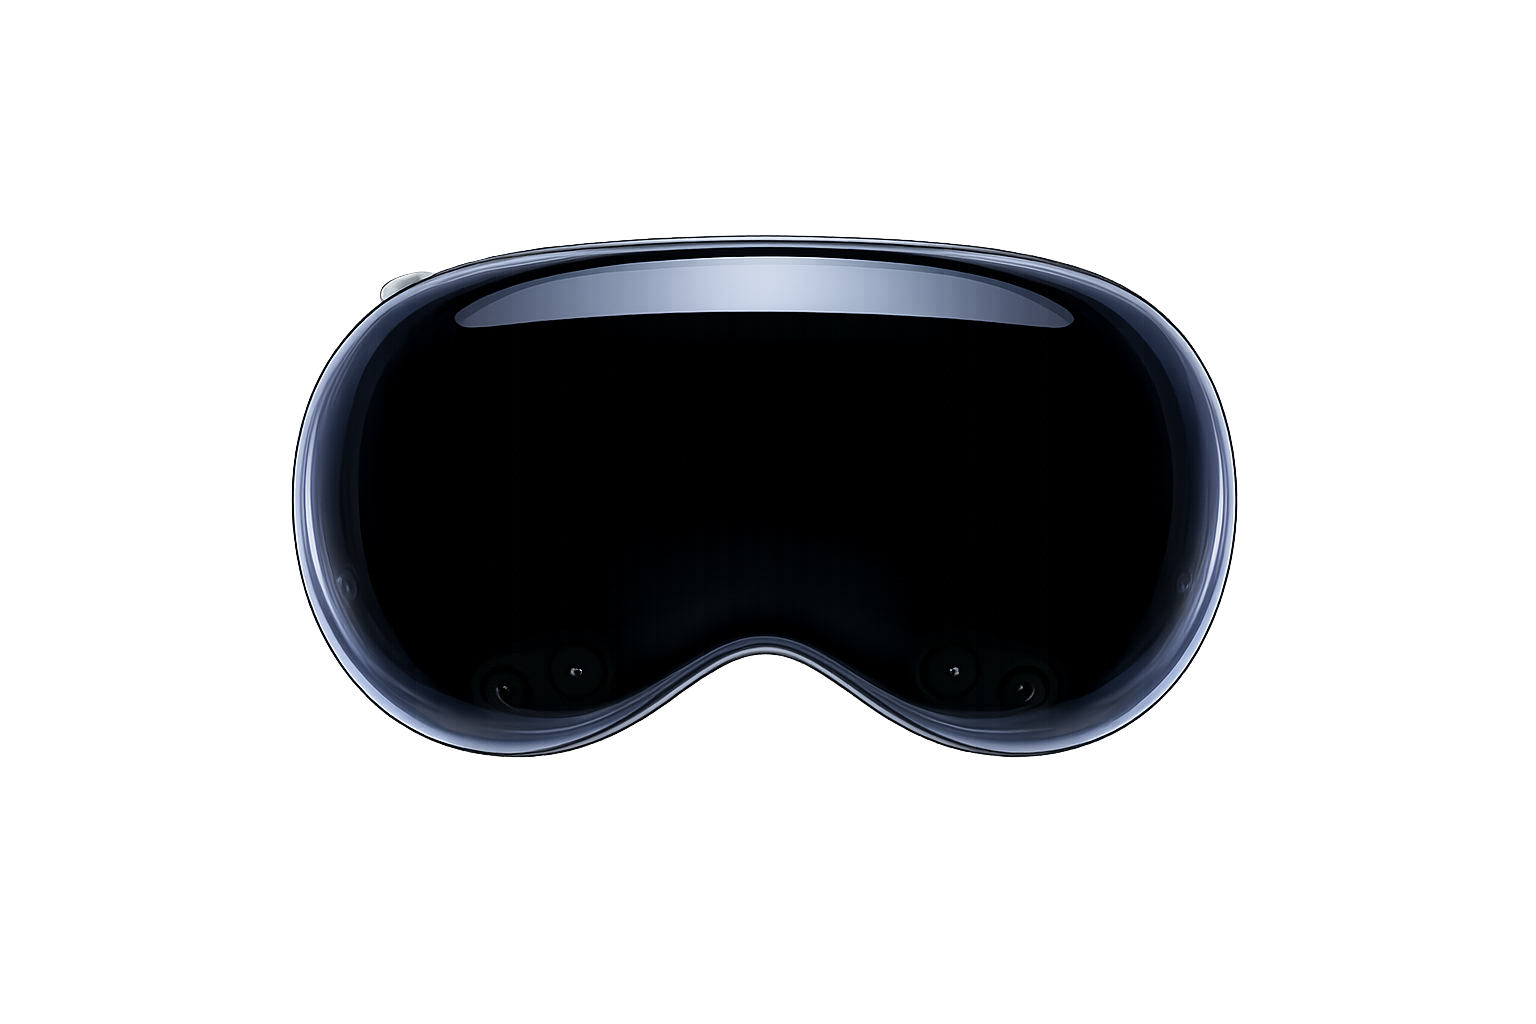
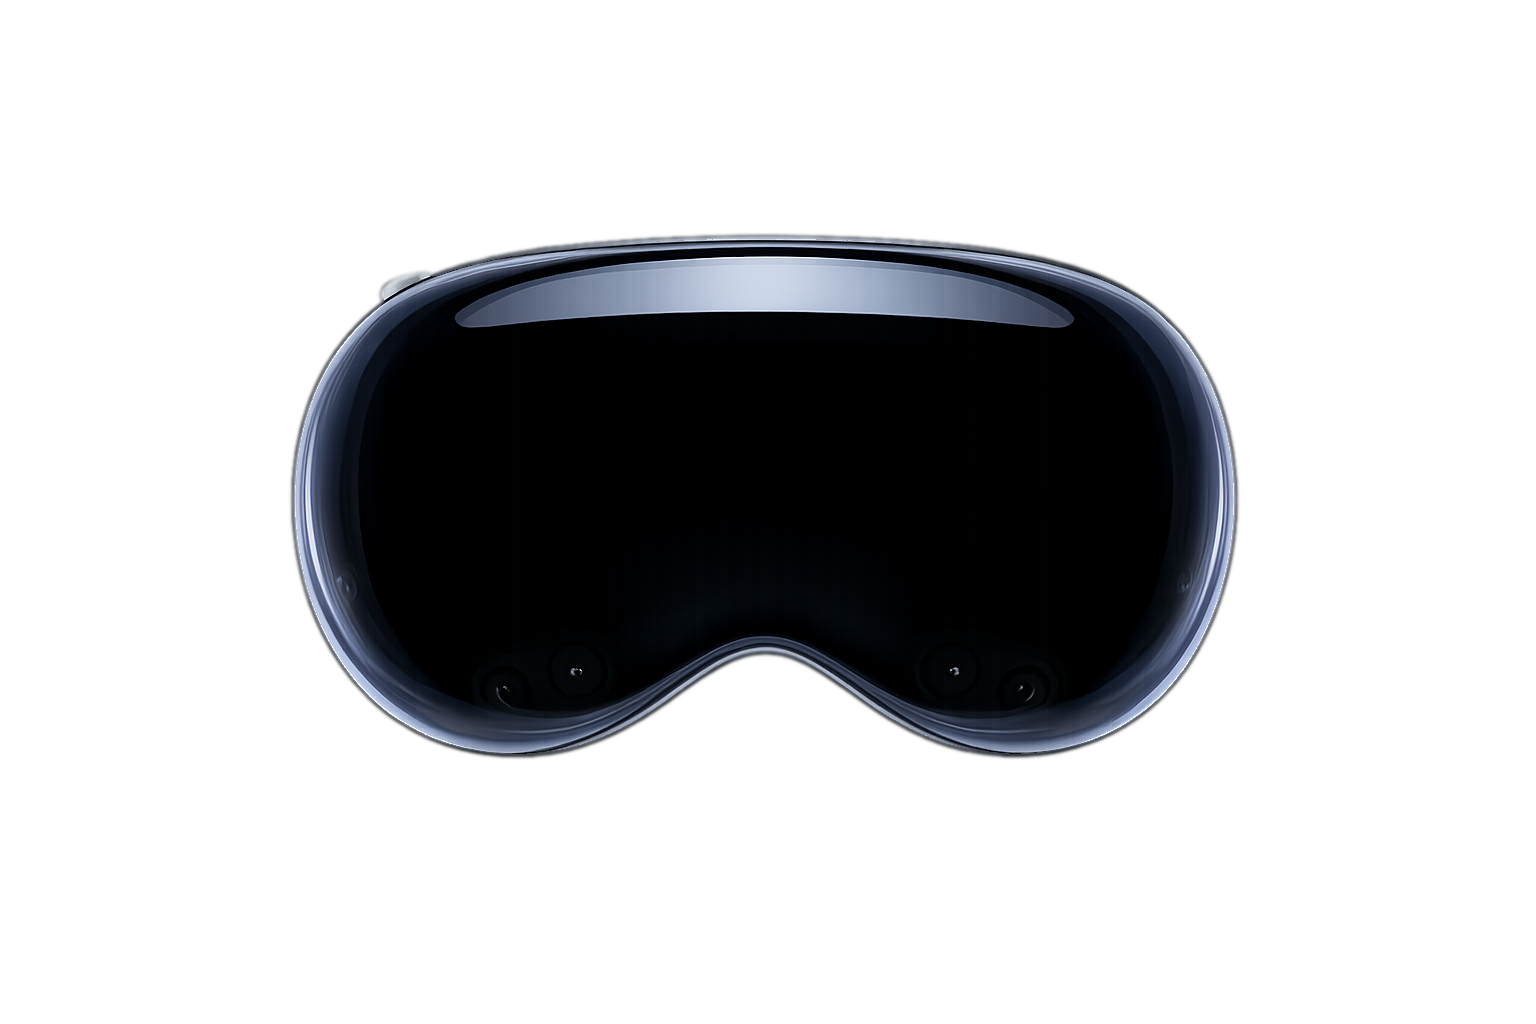
Hero: feather headset PNG edge and rework glass-surface shadow
Removes the hard 1-2px black fringe ring around HeadsetTransparent.png
via premultiplied-alpha feathering, and re-tunes the .hero-visual::before
glow/shadow gradients (tighter box, recentered, smaller radii) so they
fully fade out before .hero's overflow:hidden edge instead of clipping
flat. Softens the silhouette drop-shadow and contact-shadow ellipses so
the headset reads as resting on reflective glass rather than a sticker
cutout.

diff --git a/styles.css b/styles.css
@@ -668,52 +668,51 @@ h1 .accent {
 }
 
 /* Studio surface, anchored to the headset's container so it follows
-   the headset on every viewport. The implied surface line sits at
-   y = 63% of this (oversized) box. Real product-shadow anatomy: a tight
-   dark core right at the contact, a mid penumbra, and a broad faint
-   ambient pool — every layer reaches zero by ~±42% from center so the
-   shadow can never hit a viewport or section edge and clip flat. */
+   the headset on every viewport. .hero-visual sits flush against the
+   right edge of the viewport with very little margin before `.hero`'s
+   overflow:hidden clips it — so unlike a symmetric layout, this box can
+   only extend a little to the right (2%) but has lots of room on the
+   left (-20%). Every gradient layer is sized to reach zero by ~±35% from
+   its center, comfortably inside that right-side limit on every viewport
+   so nothing gets clipped flat. */
 .hero-visual::before {
   content: "";
   position: absolute;
-  top: 0; left: -25%; right: -25%; bottom: -30%;
+  top: 0; left: -20%; right: 2%; bottom: -22%;
   pointer-events: none;
   z-index: 0;
   background:
-    /* surface edge — a sharp, bright specular line where the device meets
-       the glass: tighter and brighter than a matte surface so the plane
+    /* surface edge — a bright specular band where the device meets the
+       glass: tighter and brighter than a matte surface so the plane
        reads as polished glass catching the daylight */
-    radial-gradient(ellipse 44% 0.32% at 53% 62.7%,
-      rgba(255,253,246,0.92) 0%,
-      rgba(251,244,228,0.46) 38%,
-      rgba(235,224,203,0.14) 70%,
+    radial-gradient(ellipse 30% 1% at 60% 64%,
+      rgba(255,253,246,0.85) 0%,
+      rgba(251,244,228,0.42) 42%,
+      rgba(235,224,203,0.12) 75%,
       transparent 100%),
-    /* core — softer contact shadow: glass transmits light, so the shadow
-       directly under the device is lighter than it would be on matte ground */
-    radial-gradient(ellipse 26% 1.6% at 53% 63.1%,
+    /* core — tight, soft contact shadow right under the device. Glass
+       transmits light, so this stays lighter than shadow on matte ground */
+    radial-gradient(ellipse 17% 2.4% at 60% 65%,
       rgba(24,34,27,0.30) 0%,
-      rgba(24,34,27,0.21) 35%,
-      rgba(24,34,27,0.09) 68%,
-      rgba(24,34,27,0.02) 88%,
+      rgba(24,34,27,0.18) 38%,
+      rgba(24,34,27,0.06) 72%,
       transparent 100%),
     /* penumbra — soft mid shadow, slightly forward of the device */
-    radial-gradient(ellipse 32% 4.2% at 53% 63.9%,
-      rgba(24,34,27,0.17) 0%,
-      rgba(24,34,27,0.10) 40%,
-      rgba(24,34,27,0.04) 68%,
-      rgba(24,34,27,0.01) 86%,
+    radial-gradient(ellipse 24% 5% at 60% 66%,
+      rgba(24,34,27,0.14) 0%,
+      rgba(24,34,27,0.06) 50%,
+      rgba(24,34,27,0.015) 80%,
       transparent 100%),
-    /* ambient — broad, very faint, swallows the other two smoothly */
-    radial-gradient(ellipse 40% 7.5% at 53% 64.6%,
-      rgba(24,34,27,0.075) 0%,
-      rgba(24,34,27,0.045) 42%,
-      rgba(24,34,27,0.018) 68%,
-      rgba(24,34,27,0.005) 86%,
+    /* ambient — broad, very faint, swallows the other layers smoothly
+       and fully fades out before the right edge of this box */
+    radial-gradient(ellipse 32% 8% at 60% 67%,
+      rgba(24,34,27,0.05) 0%,
+      rgba(24,34,27,0.02) 50%,
       transparent 100%),
     /* warm daylight wash behind the device */
-    radial-gradient(ellipse 44% 32% at 53% 49%,
-      rgba(208,182,130,0.18) 0%,
-      rgba(208,182,130,0.07) 52%,
+    radial-gradient(ellipse 36% 28% at 60% 52%,
+      rgba(208,182,130,0.16) 0%,
+      rgba(208,182,130,0.06) 55%,
       transparent 100%);
 }
 
@@ -804,39 +803,42 @@ h1 .accent {
        middle. Softer peak + extra mid stops so it dissolves smoothly
        into the surrounding green glow rather than cutting against it. */
     radial-gradient(ellipse 30% 100% at 24% 50%,
-      rgba(0,0,0,0.72) 0%,
-      rgba(0,0,0,0.68) 4%,
-      rgba(0,0,0,0.56) 8%,
-      rgba(0,0,0,0.40) 14%,
-      rgba(0,0,0,0.29) 26%,
-      rgba(0,0,0,0.19) 42%,
-      rgba(0,0,0,0.11) 58%,
-      rgba(0,0,0,0.055) 74%,
-      rgba(0,0,0,0.02) 88%,
-      rgba(0,0,0,0.006) 96%,
+      rgba(0,0,0,0.45) 0%,
+      rgba(0,0,0,0.42) 4%,
+      rgba(0,0,0,0.34) 8%,
+      rgba(0,0,0,0.24) 14%,
+      rgba(0,0,0,0.17) 26%,
+      rgba(0,0,0,0.11) 42%,
+      rgba(0,0,0,0.065) 58%,
+      rgba(0,0,0,0.032) 74%,
+      rgba(0,0,0,0.012) 88%,
+      rgba(0,0,0,0.004) 96%,
       transparent 100%),
     /* Right contact shadow — mirror */
     radial-gradient(ellipse 30% 100% at 76% 50%,
-      rgba(0,0,0,0.72) 0%,
-      rgba(0,0,0,0.68) 4%,
-      rgba(0,0,0,0.56) 8%,
-      rgba(0,0,0,0.40) 14%,
-      rgba(0,0,0,0.29) 26%,
-      rgba(0,0,0,0.19) 42%,
-      rgba(0,0,0,0.11) 58%,
-      rgba(0,0,0,0.055) 74%,
-      rgba(0,0,0,0.02) 88%,
-      rgba(0,0,0,0.006) 96%,
+      rgba(0,0,0,0.45) 0%,
+      rgba(0,0,0,0.42) 4%,
+      rgba(0,0,0,0.34) 8%,
+      rgba(0,0,0,0.24) 14%,
+      rgba(0,0,0,0.17) 26%,
+      rgba(0,0,0,0.11) 42%,
+      rgba(0,0,0,0.065) 58%,
+      rgba(0,0,0,0.032) 74%,
+      rgba(0,0,0,0.012) 88%,
+      rgba(0,0,0,0.004) 96%,
       transparent 100%);
 }
 
 /* Tight green rim glow that hugs the headset silhouette, plus a
    stronger diffuse halo so the headset reads as backlit by the green
-   bloom on .hero-visual::before. */
+   bloom on .hero-visual::before. The drop-shadow is small and tight —
+   a silhouette-shaped shadow reads as a "sticker" cutout if it's large,
+   so it's kept subtle and the floor gradient on .hero-visual::before
+   carries the real "resting on glass" shadow. */
 .headset-core {
   position: relative;
   width: 100%;
-  filter: drop-shadow(0 22px 34px rgba(28,42,33,0.16));
+  filter: drop-shadow(0 8px 12px rgba(28,42,33,0.14));
 }
 
 /* Mirrored reflection — a visual clone of .headset-core (slider + image),